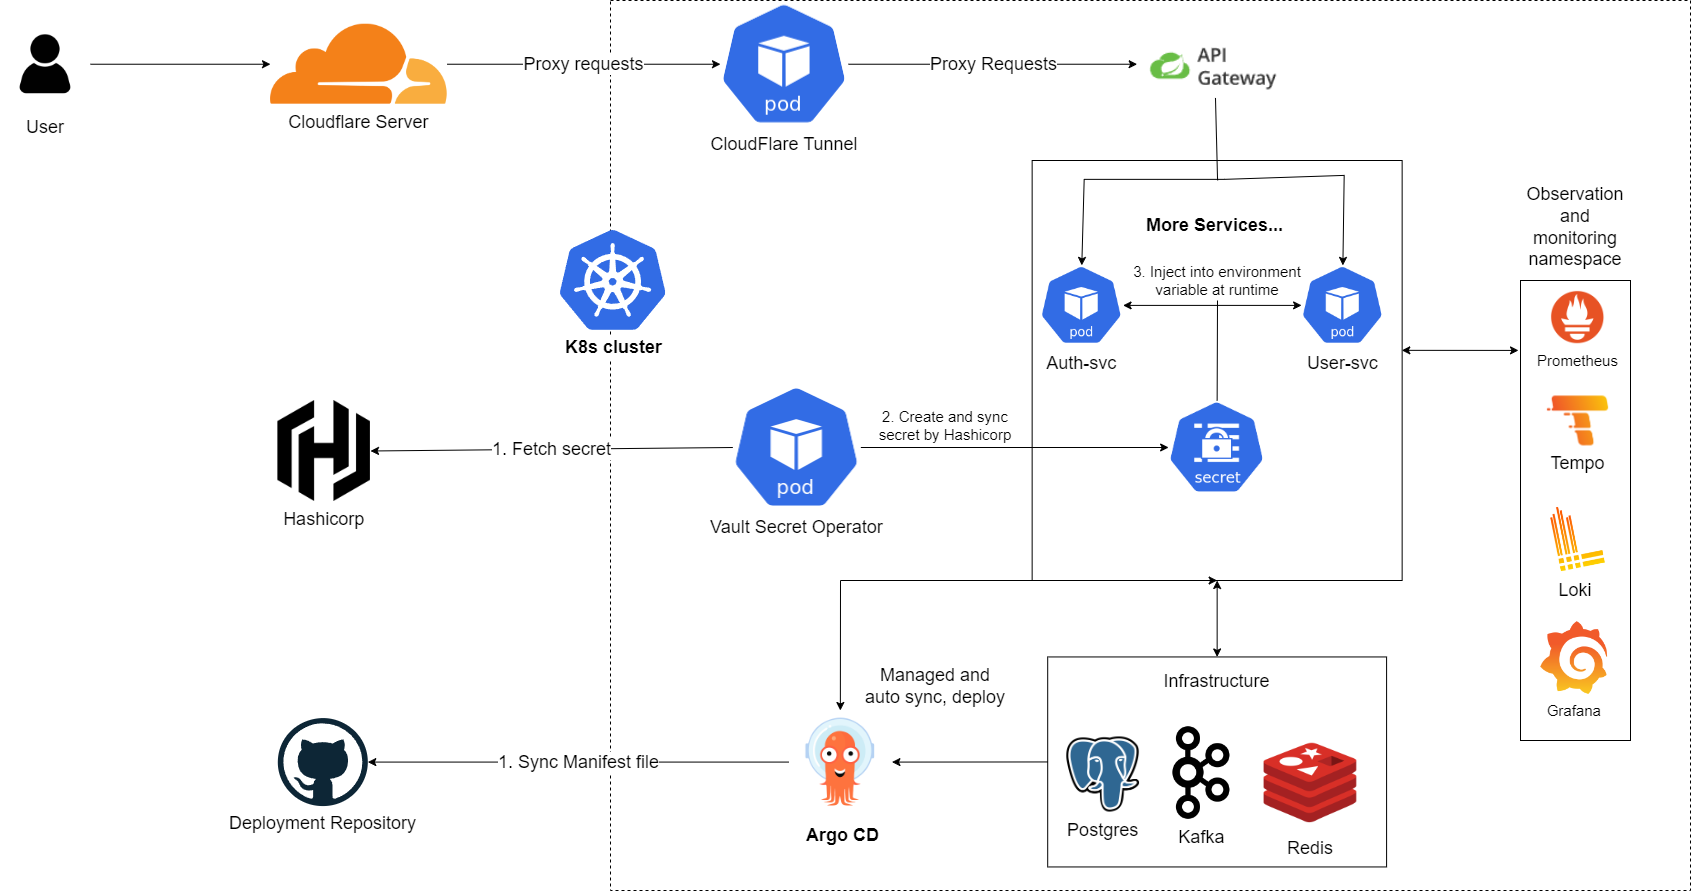
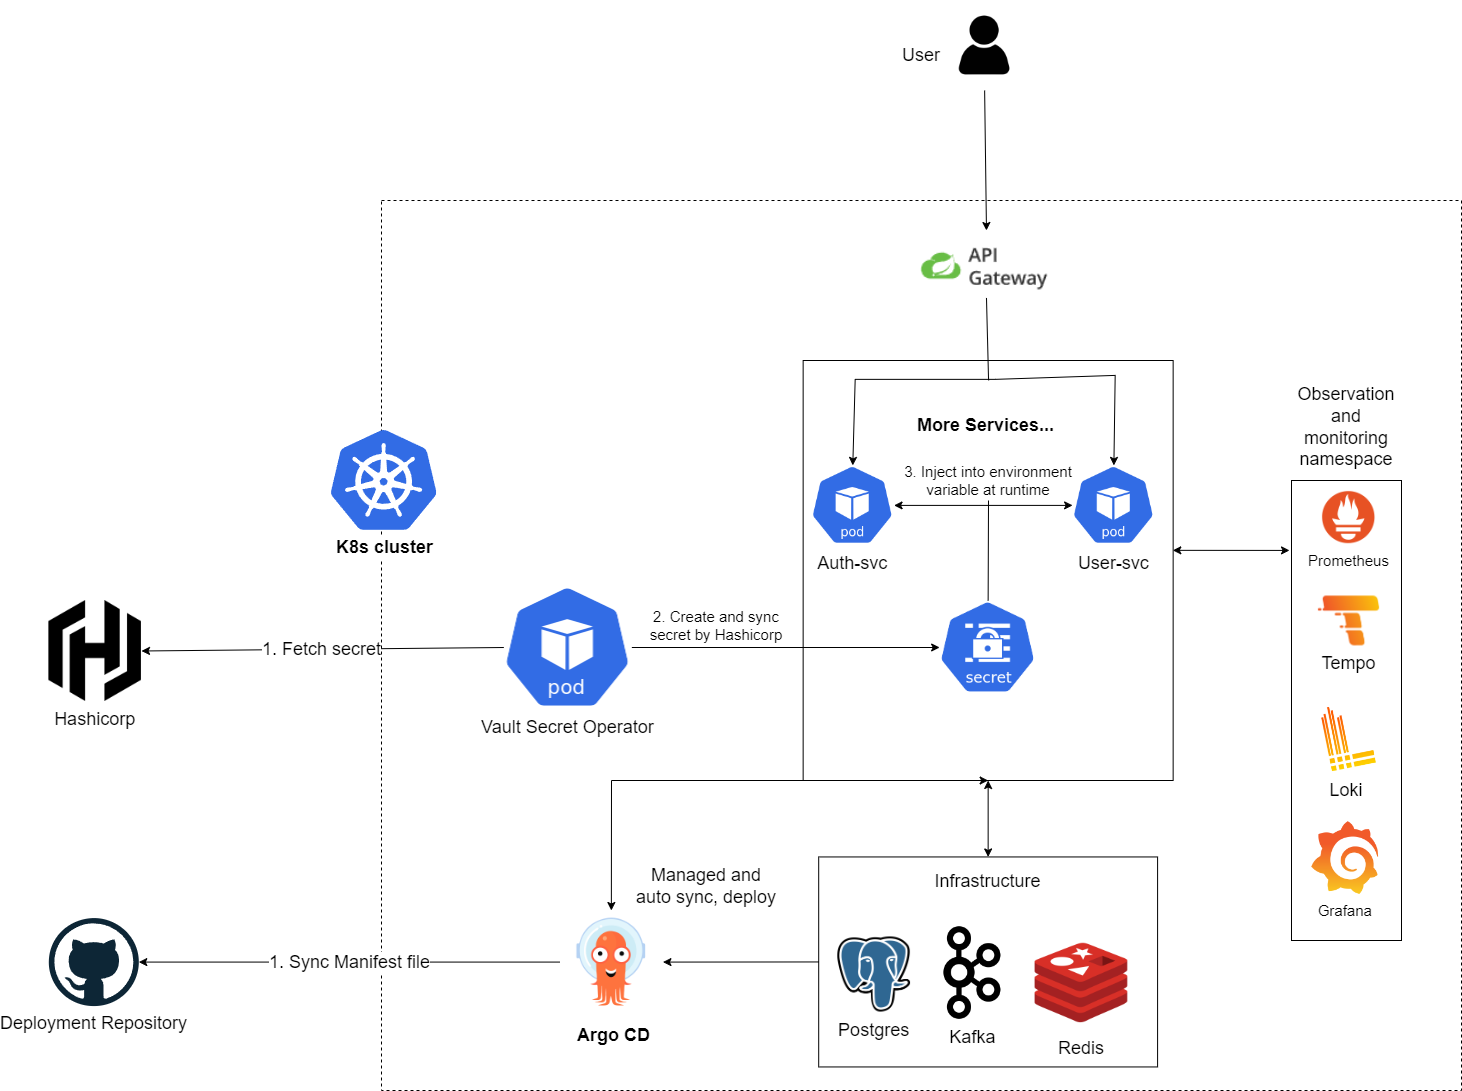
docs(): update readme.md

diff --git a/readme.md b/readme.md
@@ -33,15 +33,11 @@ This project was deployed and tested using Minikube version 1.32.0 on a system w
 2. Set up and configure the secrets in the vault secrets in the organization.
 ![hashicorp-secret](docs/hashicorp-secret.png)
 3. Set up secret management in the Kubernetes cluster, check the [hcp-k8s-operator](./yamp/templates/hcp-k8s-operator) folder.
-4. Set up dns in the Cloudflare account, get access token and zone id. I already put accessKey in the Hashicorp Cloud Platform.
-![cloudflare-tunnel](docs/cloudflare-tunnel.png)
-5. Set up the Cloudflare tunnel in the Kubernetes cluster, check the [cloudflare-tunnel](./yamp/templates/deployment/cloudflared-deployment.yaml)
 , [cloudflare-hcpvaultsecretsapp](./yamp/templates/hcp-k8s-operator/hcpvaultsecretsapp/cloudflared-hcpvaultsecretsapp.yaml)
-and [values files](./yamp/values.yaml).
-6. Configure the values for infrastructure in the [helm-config](./infra/helm-config) folder
-7. Deploying the infrastructure by running the [first_time_setup.sh](./infra/first_time_setup.sh) script. 
-8. install the secret for hcp, the only secret for hcp-operator fetching the secret from the Hashicorp Cloud Platform.
-9. Deploy the application using argocd by apply the [argocd-application](argocd/prod) folder.
+4. Configure the values for infrastructure in the [helm-config](./infra/helm-config) folder
+5. Deploying the infrastructure by running the [first_time_setup.sh](./infra/first_time_setup.sh) script. 
+6. install the secret for hcp, the only secret for hcp-operator fetching the secret from the Hashicorp Cloud Platform.
+7. Deploy the application using argocd by apply the [argocd-application](argocd/prod) folder.
 # Some images about the project
 ## Deployment with ArgoCD
 ![argocd](docs/argocd.png)
